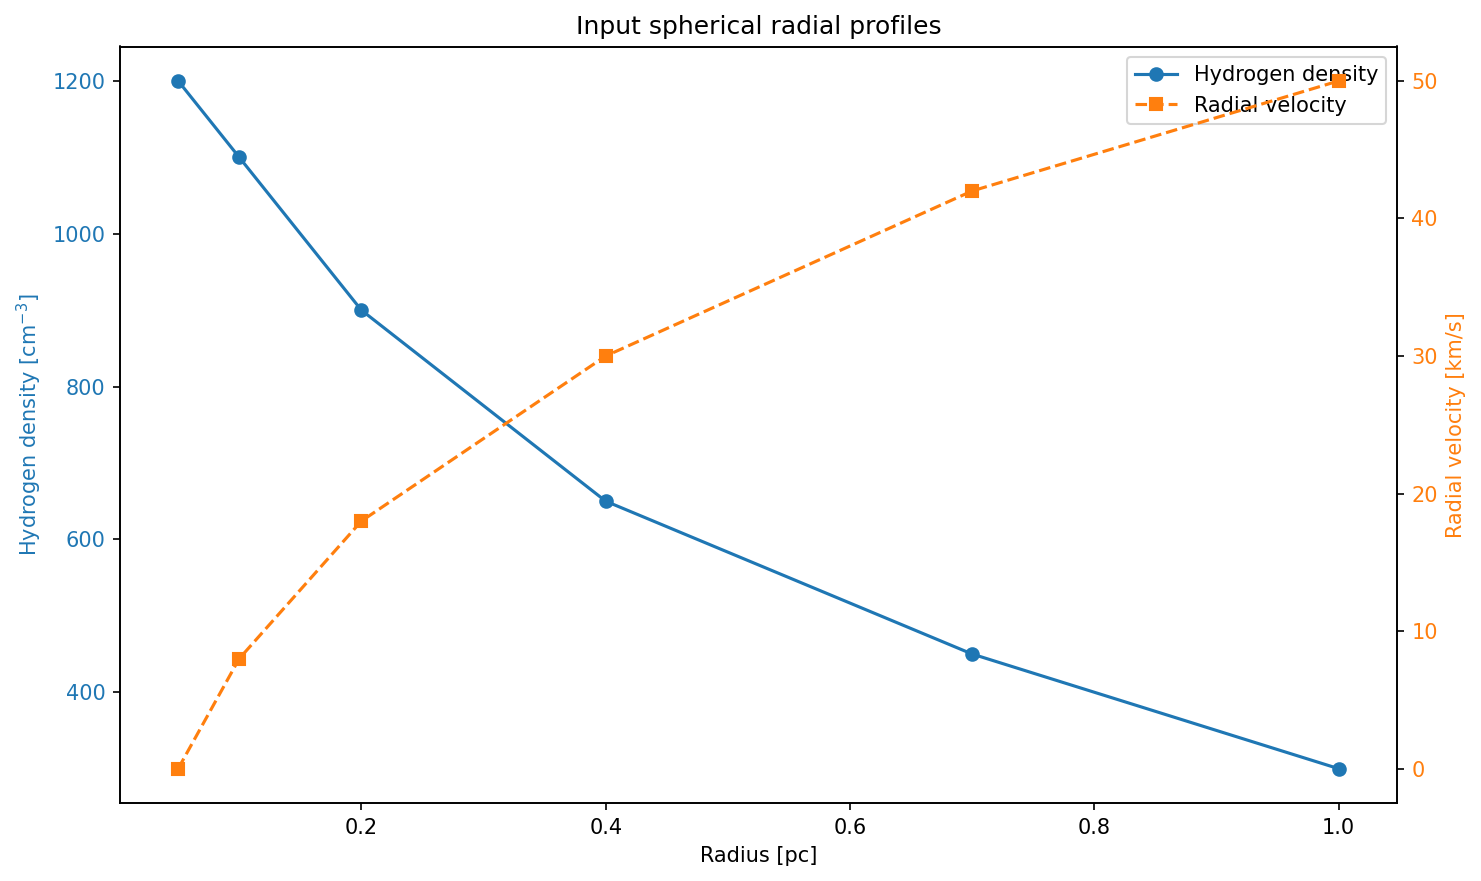
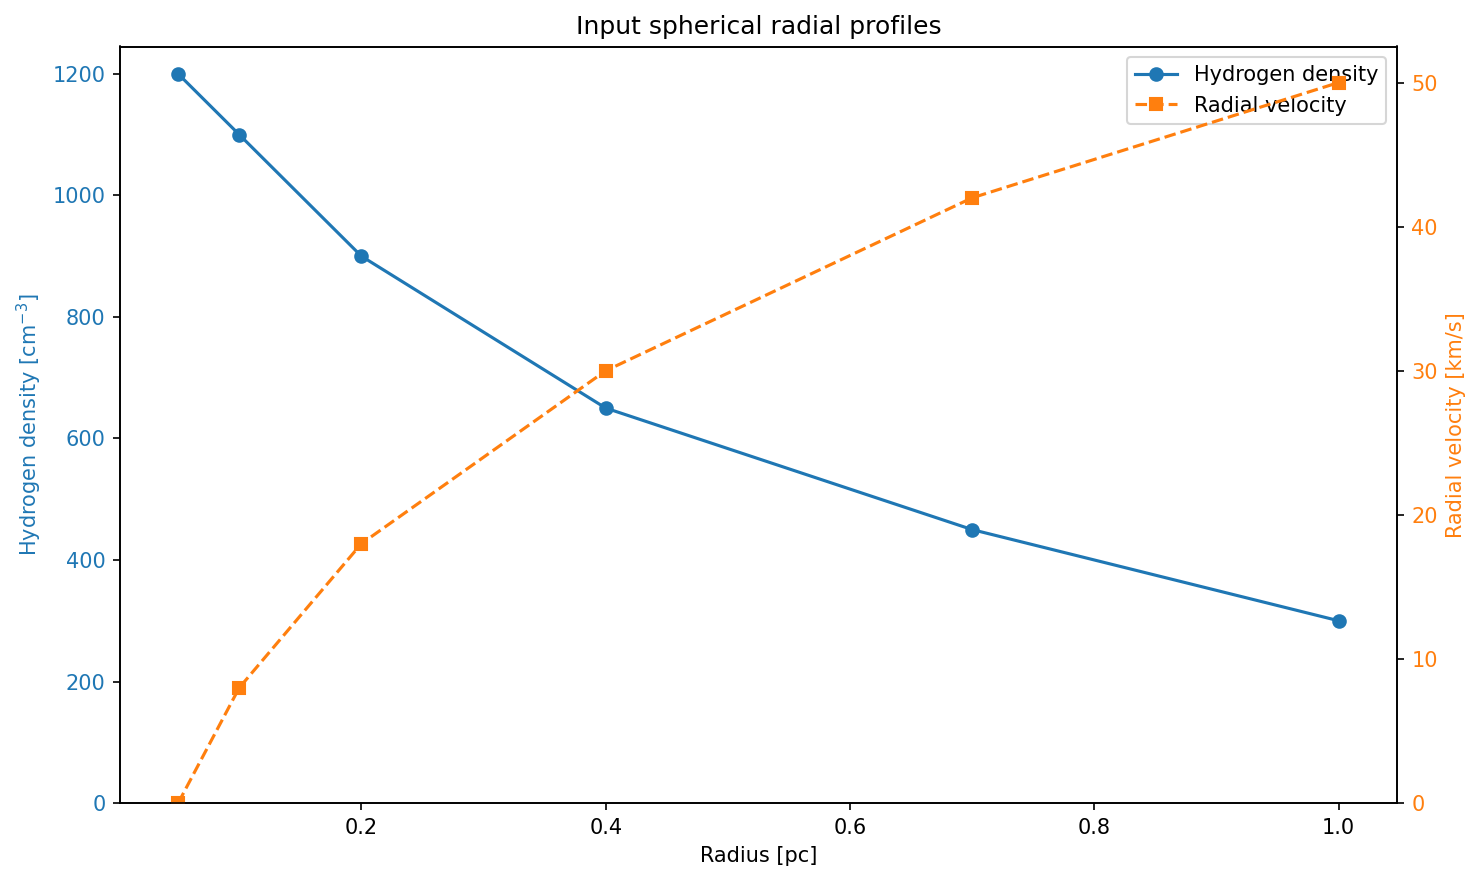
more details on poly velocity in c3d

diff --git a/python_examples/Using_pyCloudy_3_spherical_profiles/Using_pyCloudy_3_spherical_profiles.py b/python_examples/Using_pyCloudy_3_spherical_profiles/Using_pyCloudy_3_spherical_profiles.py
@@ -81,7 +81,14 @@ def read_profiles(path):
     )
 
 
-def plot_input_profiles(radius_pc, velocity_kms, density_cm3):
+def plot_input_profiles(
+    radius_pc,
+    velocity_kms,
+    density_cm3,
+    title="Input spherical radial profiles",
+    filename="input_radial_profiles.png",
+    velocity_label="Radial velocity",
+):
     figure, density_axis = plt.subplots(figsize=(10, 6))
     velocity_axis = density_axis.twinx()
     density_line = density_axis.plot(
@@ -96,18 +103,33 @@ def plot_input_profiles(radius_pc, velocity_kms, density_cm3):
         velocity_kms,
         "s--",
         color="tab:orange",
-        label="Radial velocity",
+        label=velocity_label,
     )
     density_axis.set_xlabel("Radius [pc]")
     density_axis.set_ylabel(r"Hydrogen density [cm$^{-3}$]", color="tab:blue")
     velocity_axis.set_ylabel("Radial velocity [km/s]", color="tab:orange")
+    density_axis.set_ylim(bottom=0.0)
+    velocity_axis.set_ylim(bottom=0.0)
     density_axis.tick_params(axis="y", labelcolor="tab:blue")
     velocity_axis.tick_params(axis="y", labelcolor="tab:orange")
     lines = density_line + velocity_line
     density_axis.legend(lines, [line.get_label() for line in lines], loc="best")
-    density_axis.set_title("Input spherical radial profiles")
+    density_axis.set_title(title)
     figure.tight_layout()
-    save_fig(figure, fig_dir / "input_radial_profiles.png")
+    save_fig(figure, fig_dir / filename)
+
+
+def polynomial_velocity_profile(radius_pc, params):
+    """Evaluate C3D's polynomial radial velocity law in km/s."""
+    radius_pc = np.asarray(radius_pc, dtype=float)
+    normalized_radius = radius_pc / radius_pc[-1]
+    velocity_kms = sum(
+        parameter * normalized_radius**power
+        for power, parameter in enumerate(params)
+    )
+    # C3D explicitly sets the velocity vector to zero at the origin.
+    velocity_kms[radius_pc == 0.0] = 0.0
+    return velocity_kms
 
 
 def density_table_commands(radius_pc, density_cm3):
@@ -312,6 +334,16 @@ def other_plots(m3d, proj_axis, n_cut):
 
 radius_pc, velocity_kms, density_cm3 = read_profiles(PROFILE_FILE)
 plot_input_profiles(radius_pc, velocity_kms, density_cm3)
+poly_params = [20.0, 60.0]
+poly_velocity_kms = polynomial_velocity_profile(radius_pc, poly_params)
+plot_input_profiles(
+    radius_pc,
+    poly_velocity_kms,
+    density_cm3,
+    title="Input density with C3D polynomial velocity (params=[20, 60])",
+    filename="input_radial_profiles_wpolyv.png",
+    velocity_label="C3D polynomial velocity",
+)
 cloudy_exe = find_cloudy_exe(script_dir)
 pc.config.cloudy_exe = str(cloudy_exe)
 model_path = temp_model_dir / MODEL_NAME
@@ -321,7 +353,7 @@ pc.run_cloudy(dir_=str(temp_model_dir) + "/", n_proc=6, model_name=MODEL_NAME, u
 c_output = pc.CloudyModel(str(model_path))
 m3d = pc.C3D(c_output, dims=DIM, center=True, n_dim=1)
 
-m3d.set_velocity(params=[20.0, 60.0])
+m3d.set_velocity(params=poly_params)
 m3d.config_profile(size_spectrum=51, vel_max=50.0, v_turb=0.01)
 n_cut = (DIM - 1) // 2
 

diff --git a/docs/C3D.md b/docs/C3D.md
@@ -143,6 +143,22 @@ When they say `ion`, they mean the zero-based ion stage for that element:
 - `plot_profiles(Nx=10, Ny=10, ref=None, axis='x', normalized=True, i_fig=None, ...)` - plot profiles in a grid
 - `get_RGB(list_emis=[0, 1, 2], axes=1)` - build RGB composite cubes or maps from three emissivity channels
 
+### Polynomial Velocity Law
+
+C3D's default polynomial law uses `params=[a0, a1, ..., aN]` to define the
+radial speed at radius `r`:
+
+```text
+v(r) = a0 + a1 (r / R)^1 + a2 (r / R)^2 + ... + aN (r / R)^N
+```
+
+Here, `R` is the outer radius of the C3D grid and every `ai` is a velocity
+coefficient in km/s. The coefficients control the constant, linear, quadratic,
+and higher-order contributions. For the default example, `params=[20, 60]`
+means `v(r) = 20 + 60 (r / R)` km/s away from the origin; C3D sets the velocity
+vector to zero exactly at the origin. The polynomial velocity is radial, with
+Cartesian components proportional to `(x, y, z) / r`.
+
 ### Saving and setup
 
 - `save_coeffs(file_coeffs)` - save interpolation coefficients for reuse

diff --git a/docs/Using_pyCloudy_3_spherical_profiles.md b/docs/Using_pyCloudy_3_spherical_profiles.md
@@ -56,6 +56,9 @@ The velocity profile is interpolated onto the C3D radius grid and converted to
 Cartesian velocity components. The velocity is zero at the origin and is
 held at the final supplied value beyond the last profile point.
 
+For the polynomial velocity-law definition and the meaning of its `params`,
+see [`C3D.md#polynomial-velocity-law`](C3D.md#polynomial-velocity-law).
+
 ## Outputs
 
 The example produces the input profile plot plus the same diagnostic outputs as
@@ -64,6 +67,11 @@ the original 3D example:
 ### Input Profiles
 
 ![Input radial profiles](../python_examples/Using_pyCloudy_3_spherical_profiles/figures/input_radial_profiles.png)
+
+![Input density with C3D polynomial velocity](../python_examples/Using_pyCloudy_3_spherical_profiles/figures/input_radial_profiles_wpolyv.png)
+
+The second input-profile figure keeps the density from `radial_profiles.csv`
+but shows the C3D polynomial velocity used for `profile_default.png`.
 
 ### Line Profiles
 
